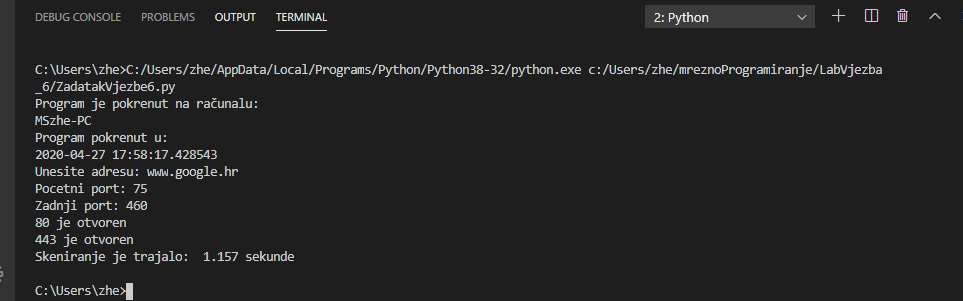
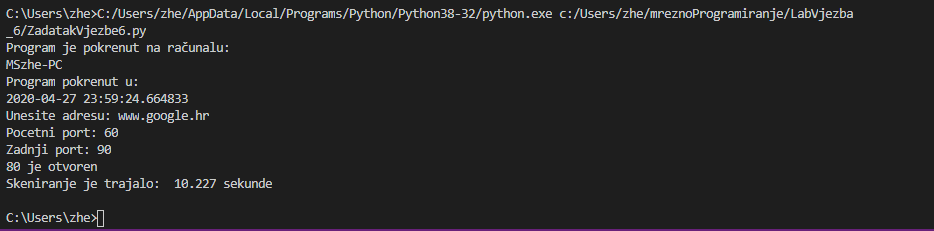
update

Changed region(s): [[0.0, 0.1818, 0.9315, 0.8788], [0.0, 0.0, 0.9936, 0.1515], [0.0, 0.9091, 1.0, 1.0]]

diff --git a/LabVjezba_6/ZadatakVjezbe6.py b/LabVjezba_6/ZadatakVjezbe6.py
@@ -11,6 +11,7 @@ print("Program je pokrenut na računalu:")
 print (socket.gethostname())
 print ("Program pokrenut u:")
 print (datetime.datetime.now())
+PocetnoVrime = time.time()
 
 target = input('Unesite adresu: ')
 
@@ -32,10 +33,9 @@ def threads():
    while True:    
       worker = q.get()      
       ports(worker)      
-      q.task_done()
-     
+      q.task_done()     
+
 q = Queue()
-PocetnoVrime = time.time()
  
 for x in range(200):   
    t = threading.Thread(target = threads)

diff --git a/LabVjezba_7/ZadatakVjezba7.py b/LabVjezba_7/ZadatakVjezba7.py
@@ -7,12 +7,14 @@ import time
 import datetime
 
 def ping(host, port):
+    s = socket.socket(socket.AF_INET, socket.SOCK_STREAM)
     try:
-        socket.socket().connect((host, port))
+        s.connect((host, port))
         print(str(port) + " - Otvoren") 
-        return       
-    except Exception:
-        return     
+        s.close()               
+    except Exception:        
+        s.close()
+        pass
 
 
 def scan_ports(host):
